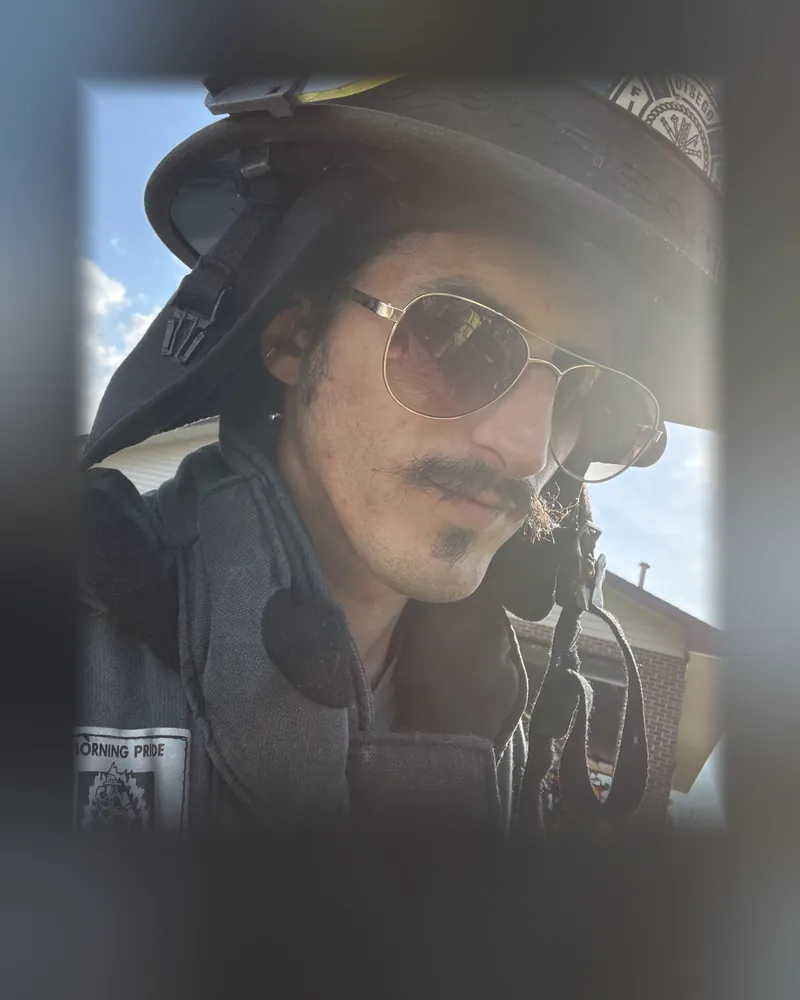
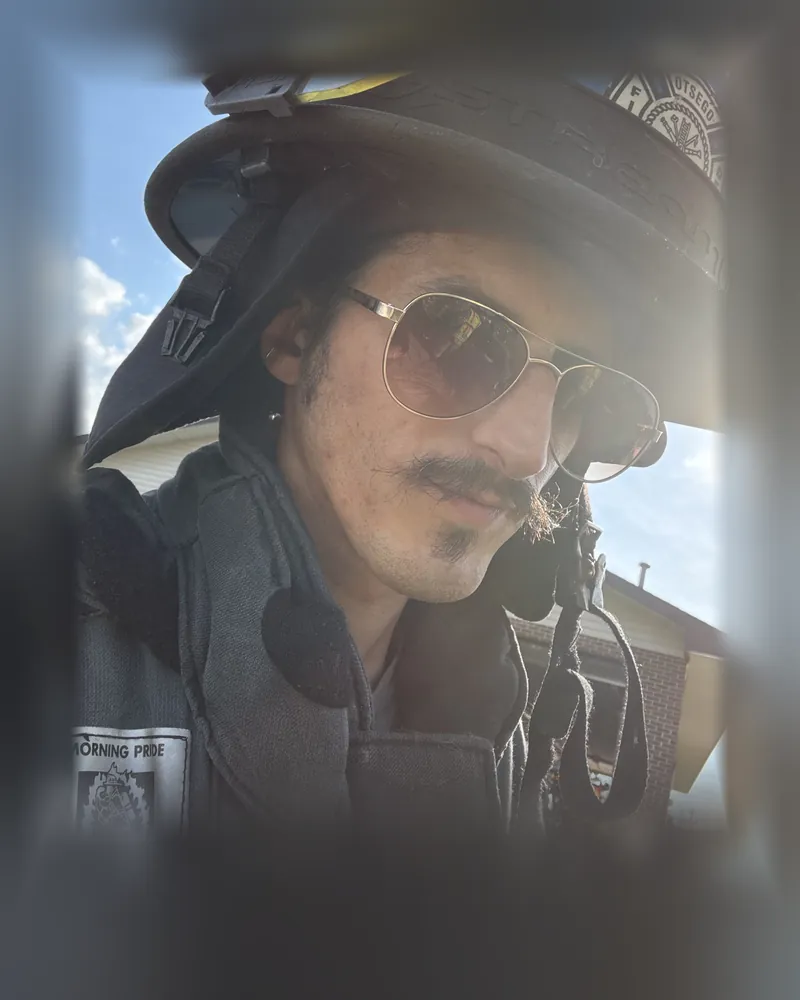
Smooth the blur around the board photos
A lightly blurred, slightly enlarged copy of each photo now sits between
the sharp photo and the heavy blur, so the edge steps down gradually
instead of meeting the heavy blur at a line.

diff --git a/index.html b/index.html
@@ -303,9 +303,9 @@
     <div class="eyebrow">Leadership</div>
     <h2 class="section-heading">Board of <em>Directors</em></h2>
     <div class="board-grid">
-      <div class="board-card board-card--photo reveal"><div class="board-photo"><img src="images/board-libby.webp?v=7" alt="Libby Benjamin" width="800" height="1000" loading="lazy"></div><div class="board-info"><div class="board-name">Libby Benjamin</div><div class="board-role">President</div></div></div>
-      <div class="board-card board-card--photo reveal"><div class="board-photo"><img src="images/board-dan.webp?v=7" alt="Dan Rypkowski" width="800" height="1000" loading="lazy"></div><div class="board-info"><div class="board-name">Dan Rypkowski</div><div class="board-role">Vice President</div></div></div>
-      <div class="board-card board-card--photo reveal"><div class="board-photo"><img src="images/board-kenneth.webp?v=7" alt="Kenneth Gibson" width="800" height="1000" loading="lazy"></div><div class="board-info"><div class="board-name">Kenneth Gibson</div><div class="board-role">Secretary / Treasurer</div></div></div>
+      <div class="board-card board-card--photo reveal"><div class="board-photo"><img src="images/board-libby.webp?v=9" alt="Libby Benjamin" width="800" height="1000" loading="lazy"></div><div class="board-info"><div class="board-name">Libby Benjamin</div><div class="board-role">President</div></div></div>
+      <div class="board-card board-card--photo reveal"><div class="board-photo"><img src="images/board-dan.webp?v=9" alt="Dan Rypkowski" width="800" height="1000" loading="lazy"></div><div class="board-info"><div class="board-name">Dan Rypkowski</div><div class="board-role">Vice President</div></div></div>
+      <div class="board-card board-card--photo reveal"><div class="board-photo"><img src="images/board-kenneth.webp?v=9" alt="Kenneth Gibson" width="800" height="1000" loading="lazy"></div><div class="board-info"><div class="board-name">Kenneth Gibson</div><div class="board-role">Secretary / Treasurer</div></div></div>
     </div>
   </div>
 </section>
